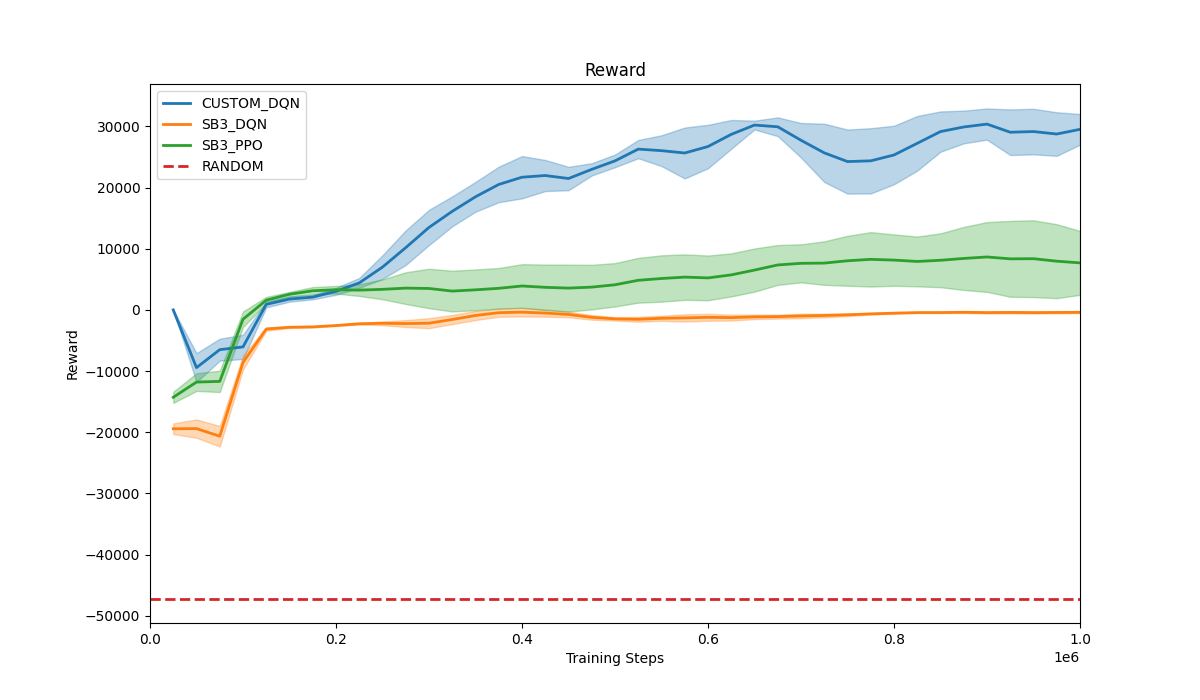
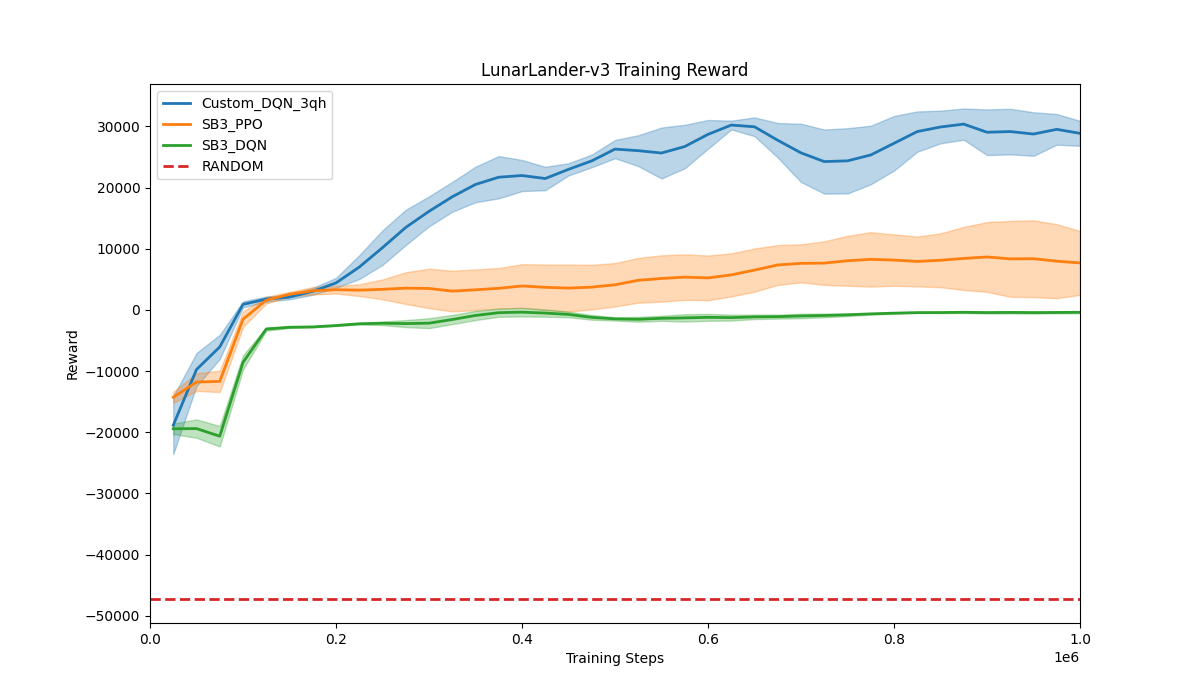
fixed plots

diff --git a/src/plot_results.py b/src/plot_results.py
@@ -15,6 +15,7 @@ TRAINING = "Training_Results"
 def plot_results(
     results_to_plot,
     save_dir: str,
+    env_name="",
     is_training_result=False,
     interval_x_axis: int | None = 5,
 ):
@@ -41,7 +42,7 @@ def plot_results(
     for col_name, title, file_name in cols:
         plt.rcParams["figure.figsize"] = (12, 7)
         plt.margins(x=0)
-        plt.title(title)
+        plt.title(f"{env_name} {'Training' if is_training_result else 'Validation'} {title}")
 
         plt.xlabel(x_label)
         plt.ylabel(col_name)
@@ -115,15 +116,16 @@ def load_csvs_heads(base_dir):
 
 
 def main():
-    base_dir = "results/LunarLander-v3/1.0M"
-    algos_to_plot = ["CUSTOM_DQN_3qh"]#, "SB3_DQN", "SB3_PPO", "RANDOM"]
+    env_name = "LunarLander-v3"  # just for plot title
+    base_dir = f"results/{env_name}/1.0M"
+    algos_to_plot = ["Custom_DQN_3qh", "SB3_PPO", "SB3_DQN", "RANDOM"]
     save_dir = f"{base_dir}/_plots"
 
-    plot_training_results = False  # set false to plot eval results
-    results_to_plot = load_csvs(base_dir, algos_to_plot, load_training_csvs=plot_training_results, load_head_results=True)
+    plot_training_results = True  # set false to plot eval results
+    results_to_plot = load_csvs(base_dir, algos_to_plot, load_training_csvs=plot_training_results, load_head_results=False)
 
     # If you need to plot results from outside of base_dir, use results_to_plot["my_result"] =  read_csv(path_to_result)
-    plot_results(results_to_plot, save_dir=save_dir, is_training_result=plot_training_results)
+    plot_results(results_to_plot, save_dir=save_dir, is_training_result=plot_training_results, env_name=env_name)
 
 
 if __name__ == "__main__":
